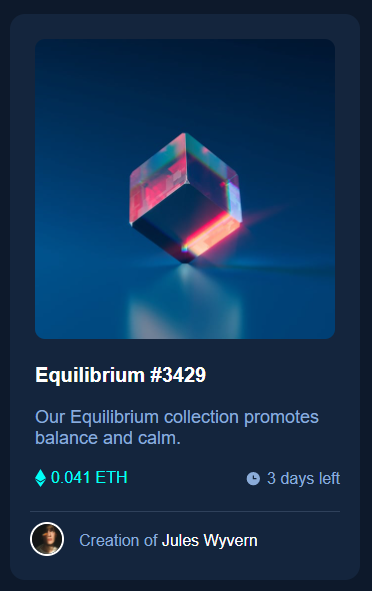
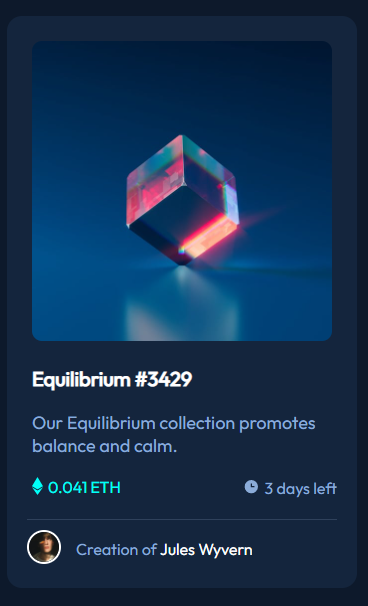
chellenge completed-font fixed

diff --git a/style.css b/style.css
@@ -1,8 +1,8 @@
-@import url(https://fonts.google.com/specimen/Outfit);
+@import url('https://fonts.googleapis.com/css2?family=Outfit');
 
 * {
     background: hsl(217, 54%, 11%);
-    font-family: Outfit, sans-serif;
+    font-family: "Outfit", sans-serif;
     color: hsl(0, 0%, 100%);
 }
 
